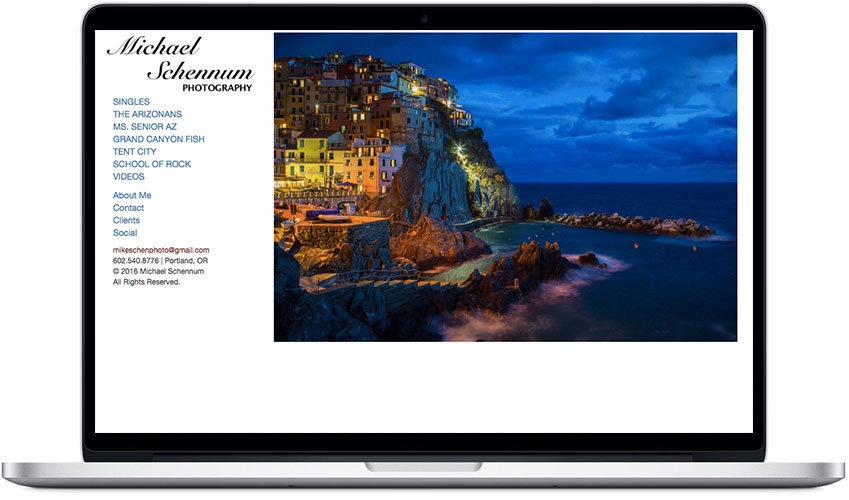
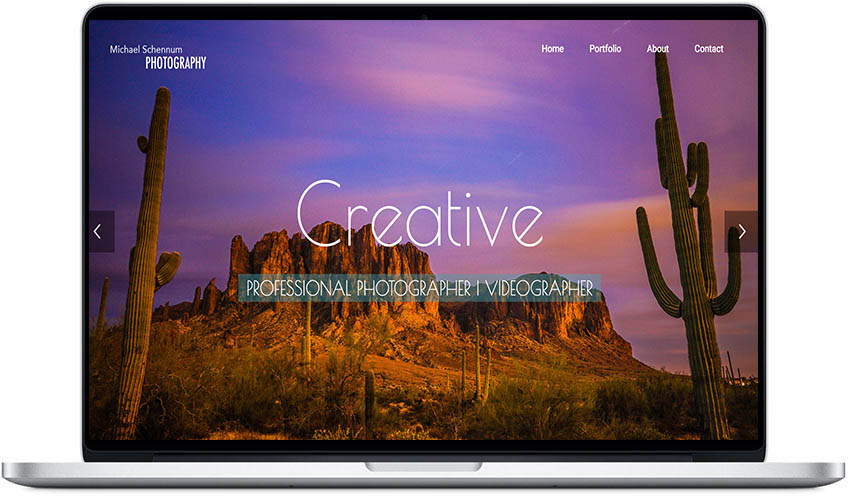
adds new files

diff --git a/sendar.html b/sendar.html
@@ -32,7 +32,7 @@
             <a href="index.html"><i class="fa fa-long-arrow-left" aria-hidden="true"></i></a>
         </div>
         <div class="Topbar__title">
-            Hangboard Repeaters
+            sendar
         </div>
     </div>
     <section id="Project-page" class="project-page space-from-topbar">
@@ -41,8 +41,8 @@
                 <div class="row">
                     <div class="col-sm-12">
                         <div class="project-image">
-                            <a href="https://play.google.com/store/apps/details?id=com.mikeschen.www.hangboardrepeaters">
-                            <img src="resources/images/apps/casestudies/hangboard-lg.jpg" alt="Hangboard Image"></a>
+                            <a href="sendar">
+                            <img src="resources/images/apps/casestudies/sendar-lg.jpg" alt="Sendar Image"></a>
                         </div>
                     </div>
                 </div>
@@ -56,31 +56,31 @@
                                     </div>
                                     <div class="project-detail">
                                         <div class="project-detail-label">GitHub Code</div>
-                         <div class="project-detail-value"><a href="https://www.github.com/mikeschen/HangboardRepeatersAndroid">Here</a></div>
+                                        <div class="project-detail-value"><a href="https://www.github.com/mikeschen/sendar">Here</a></div>
                                     </div>
                                     <div class="project-detail">
                                         <div class="project-detail-label">Type</div>
-                                        <div class="project-detail-value">Android App</div>
+                                        <div class="project-detail-value">Web App</div>
                                     </div>
                                     <div class="project-detail">
                                         <div class="project-detail-label">Technologies</div>
-                                        <div class="project-detail-value">Android, Java, XML, SQLite</div>
+                                        <div class="project-detail-value">React, Redux, Bootstrap</div>
                                     </div>
                                     <div class="project-detail">
                                         <div class="project-detail-label">Online</div>
-                                        <div class="project-detail-value"><a href="https://play.google.com/store/apps/details?id=com.mikeschen.www.hangboardrepeaters"><img src="resources/images/apps/google-play-badge.png" height="58" width="150"/></a></div>
+                                        <div class="project-detail-value"><a href="sendar">www.mikeschen.com/sendar
+                                        </a></div>
                                     </div>
                                 </div>
                             </div>
                             <div class="col-sm-8 col-sm-offset-1">
                                 <div class="project-description">
-                                    <p>An Android exercise interval timer app for users to hang on plastic rock climbing holds for different amounts of time. Includes workout database.
-                                        Currently the top-rated rock climbing training app on the Google Play Store with over 5000 downloads.</p>
+                                    <p>A climbing app to search rock climbing routes done by users using React, Redux, Bootstrap, the Mountain Project and Google Maps APIs.</p>
                                 </div>
                                 <div class="project-naviagtion">
-                                    <a href="sendar.html"><i class="fa fa-chevron-left" aria-hidden="true"></i></a>
+                                    <a href="albuminator.html"><i class="fa fa-chevron-left" aria-hidden="true"></i></a>
                                     <a href="project-list.html"><i class="fa fa-th-list" aria-hidden="true"></i></a>
-                                    <a href="reactblog.html"><i class="fa fa-chevron-right" aria-hidden="true"></i></a>
+                                    <a href="hangboard.html"><i class="fa fa-chevron-right" aria-hidden="true"></i></a>
                                 </div>
                             </div>
                         </div>

diff --git a/index.html b/index.html
@@ -117,8 +117,8 @@
                                 </div>
                             </div>
                             <div class="buttons-group mt-2">
-                                <a href="resources/images/resumeschennum.pdf">
-                                    <button class="btn btn-black" data-aos="fade" data-aos-delay="300">Download CV</button>
+                                <a href="http://photo.mikeschen.com">
+                                    <button class="btn btn-black" data-aos="fade" data-aos-delay="300">See My Photography</button>
                                 </a>
                             </div>
                         </div>
@@ -180,7 +180,7 @@
                                 <div class="offer-box">
                                     <i class="icon-mobile"></i>
                                     <h4>Mobile apps</h4>
-                                    <p>Experience building native Android appsin Java.</p>
+                                    <p>Experience building native Android apps in Java.</p>
                                 </div>
                             </div>
                         </div>
@@ -230,7 +230,7 @@
                     {"name": "Sugar Crash", "image": "resources/images/apps/nexusSugarCrash1thumb.jpg", "href": "sugarcrash.html", "tags": ["Java"]},
                     {"name": "Ask Me Anything", "image": "resources/images/apps/amathumb.jpg", "href": "ama.html", "tags": ["Ember.js"]},
                     {"name": "Albuminator", "image": "resources/images/apps/albuminatorthumb.jpg", "href": "albuminator.html", "tags": ["Angular"]},
-                    {"name": "Three O", "image": "resources/images/apps/threeothumb.jpg", "href": "threeo.html", "tags": ["Java"]}
+                    {"name": "Sendar", "image": "resources/images/apps/sendarthumb.jpg", "href": "sendar.html", "tags": ["React"]}
                 ]'>
                 </portfolio>
                 
@@ -332,7 +332,7 @@
                     </div>
                     <div class="col-sm-4">
                         <img src="assets/images/logo.png" alt="Tej">
-                        <div class="copyrights">© 2017 Michael Schennum - ALL RIGHTS RESERVED</div>
+                        <div class="copyrights">© Copyright Michael Schennum <script>document.write(new Date().getFullYear());</script> - ALL RIGHTS RESERVED</div>
                     </div>
                     <div class="col-sm-4">
                         <div class="footer-socials">

diff --git a/project-list.html b/project-list.html
@@ -45,7 +45,7 @@
                     {"name": "Sugar Crash", "image": "resources/images/apps/nexusSugarCrash1thumb.jpg", "href": "sugarcrash.html", "tags": ["Java"]},
                     {"name": "Ask Me Anything", "image": "resources/images/apps/amathumb.jpg", "href": "ama.html", "tags": ["Ember.js"]},
                     {"name": "Albuminator", "image": "resources/images/apps/albuminatorthumb.jpg", "href": "albuminator.html", "tags": ["Angular"]},
-                    {"name": "Three O", "image": "resources/images/apps/threeothumb.jpg", "href": "threeo.html", "tags": ["Java"]}
+                    {"name": "Sendar", "image": "resources/images/apps/sendarthumb.jpg", "href": "sendar.html", "tags": ["React"]}
                 ]'>
                 </portfolio>
             </div>

diff --git a/albuminator.html b/albuminator.html
@@ -79,7 +79,7 @@
                                 <div class="project-naviagtion">
                                     <a href="ama.html"><i class="fa fa-chevron-left" aria-hidden="true"></i></a>
                                     <a href="project-list.html"><i class="fa fa-th-list" aria-hidden="true"></i></a>
-                                    <a href="threeo.html"><i class="fa fa-chevron-right" aria-hidden="true"></i></a>
+                                    <a href="sendar.html"><i class="fa fa-chevron-right" aria-hidden="true"></i></a>
                                 </div>
                             </div>
                         </div>

diff --git a/mikeschenphoto.html b/mikeschenphoto.html
@@ -41,7 +41,7 @@
                 <div class="row">
                     <div class="col-sm-12">
                         <div class="project-image">
-                            <a href="http://www.mikeschen.com/mikeschenphoto/">
+                            <a href="http://photo.mikeschen.com">
                             <img src="resources/images/apps/casestudies/mikeschenphoto-lg.jpeg" alt="Photo Portfolio Image"></a>
                         </div>
                     </div>
